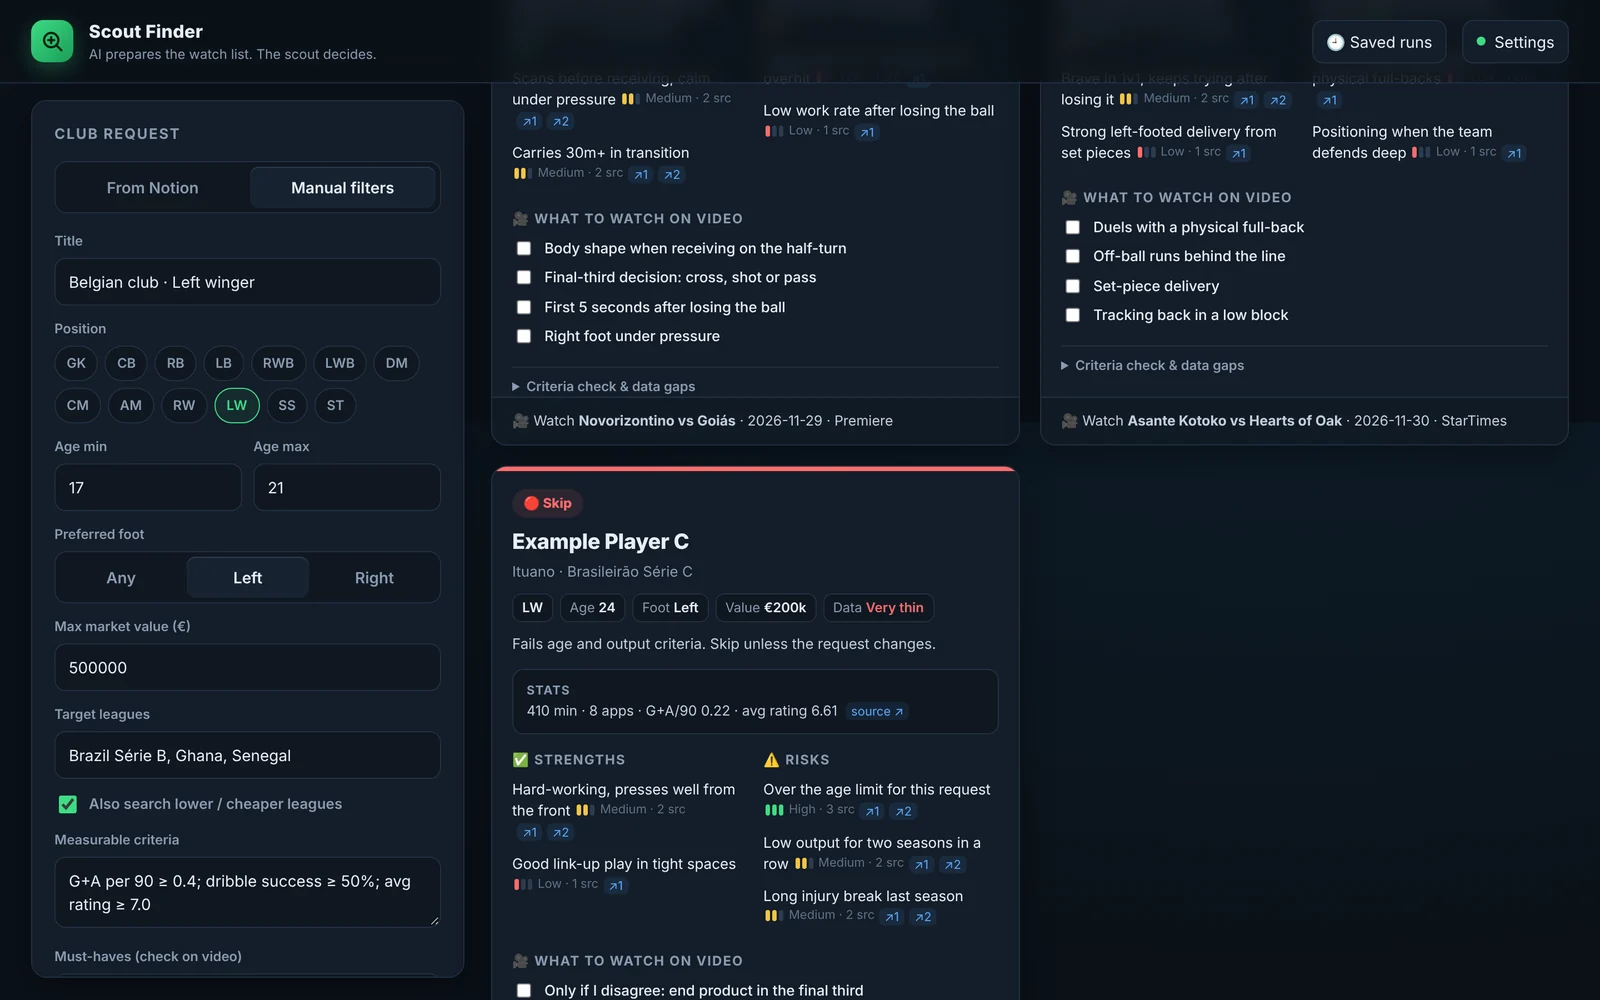
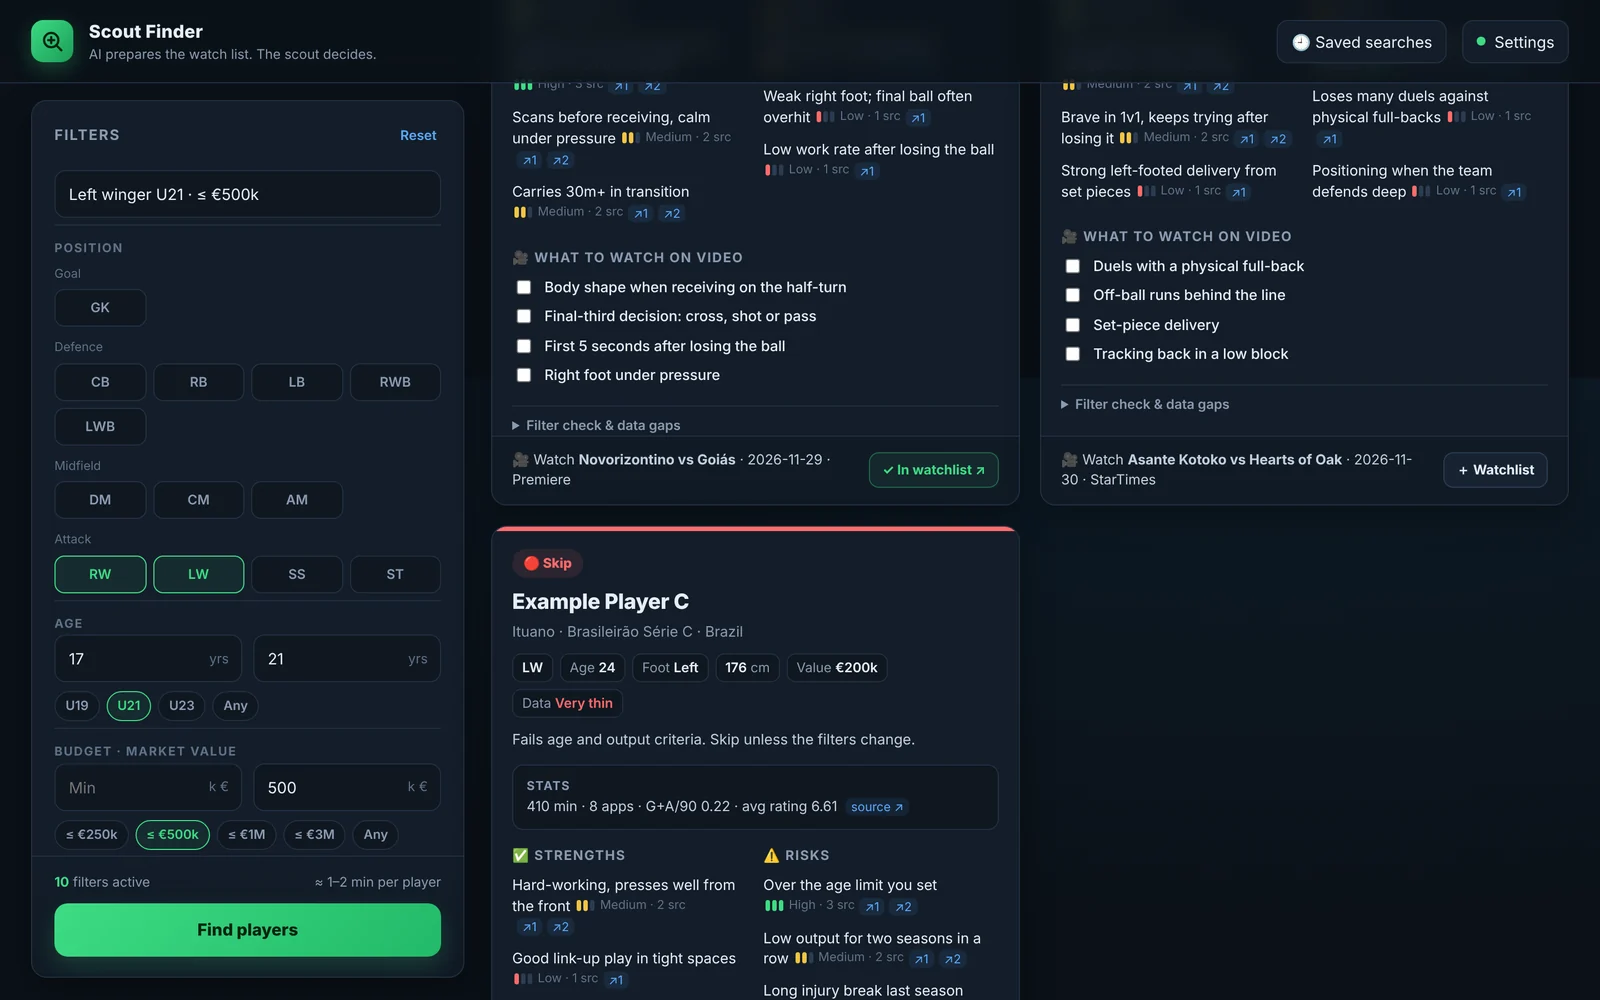
Update Scout Finder card: filter-first app and Notion watchlist
Claude-Session: https://claude.ai/code/session_01S9b4rMVSmiBwiELNcknNUC

diff --git a/index.html b/index.html
@@ -382,9 +382,9 @@ var PROJECTS = [
   {
     title: "Scout Finder",
     description: {
-      en: "A desktop app for football scouts. Enter a club request and it finds real players who fit, reads match reports, scouting blogs and fan forums, and builds a watch list: three strengths, three risks and what to check on video, each claim with its sources. It says when data is thin and sends the list to Notion. The AI prepares the list; the scout watches and decides.",
-      tr: "Futbol scout'ları için bir masaüstü uygulaması. Kulüp talebini gir; talebe uyan gerçek oyuncuları bulur, maç raporlarını, scouting bloglarını ve taraftar forumlarını okur ve bir izleme listesi çıkarır: üç artı, üç eksi ve videoda neye bakılacağı, her iddia kaynağıyla. Veri azsa söyler ve listeyi Notion'a gönderir. Listeyi AI hazırlar; izleyip kararı scout verir.",
-      bg: "Десктоп приложение за футболни скаути. Въвеждаш заявка от клуб, а то намира реални играчи, които отговарят, чете репортажи от мачове, скаутски блогове и фен форуми и съставя списък за гледане: три силни страни, три риска и какво да се провери на видео, всяко твърдение с източниците си. Казва, когато данните са малко, и изпраща списъка в Notion. AI подготвя списъка; скаутът гледа и решава."
+      en: "A desktop app for football scouts. Filter by position, age, budget, league, nationality, foot, minutes and stat thresholds, and it finds real players who fit, reads match reports, scouting blogs and fan forums, and builds a watch list: three strengths, three risks and what to check on video, each claim with its sources. Pick the players you want to follow and add them to a Notion kanban board in one click.",
+      tr: "Futbol scout'ları için bir masaüstü uygulaması. Pozisyon, yaş, bütçe, lig, uyruk, ayak, dakika ve istatistik eşiklerine göre filtrele; uyan gerçek oyuncuları bulur, maç raporlarını, scouting bloglarını ve taraftar forumlarını okur ve bir izleme listesi çıkarır: üç artı, üç eksi ve videoda neye bakılacağı, her iddia kaynağıyla. Takip etmek istediğin oyuncuları tek tıkla Notion'daki kanban panosuna ekle.",
+      bg: "Десктоп приложение за футболни скаути. Филтрирай по пост, възраст, бюджет, първенство, националност, крак, минути и статистически прагове, а то намира реални играчи, които отговарят, чете репортажи от мачове, скаутски блогове и фен форуми и съставя списък за гледане: три силни страни, три риска и какво да се провери на видео, всяко твърдение с източниците си. Добави играчите, които искаш да следиш, в канбан табло в Notion с едно кликване."
     },
     note: {
       en: "Screenshots use example players, not real scouting data.",
@@ -392,7 +392,7 @@ var PROJECTS = [
       bg: "На екранните снимки са примерни играчи, не реални скаутски данни."
     },
     tools: ["Python", "Claude API", "Web search", "Pydantic", "Notion API", "HTML", "CSS", "JavaScript", "Git", "GitHub", "Claude by Anthropic"],
-    images: ["scout-01.webp","scout-02.webp","scout-03.webp","scout-04.webp","scout-05.webp","scout-06.webp","scout-07.webp"],
+    images: ["scout-01.webp","scout-02.webp","scout-03.webp","scout-04.webp","scout-05.webp","scout-06.webp","scout-07.webp","scout-08.webp","scout-09.webp"],
     links: [{ label: "viewCode", url: "https://github.com/akizik1/scouting" }]
   },
   {
